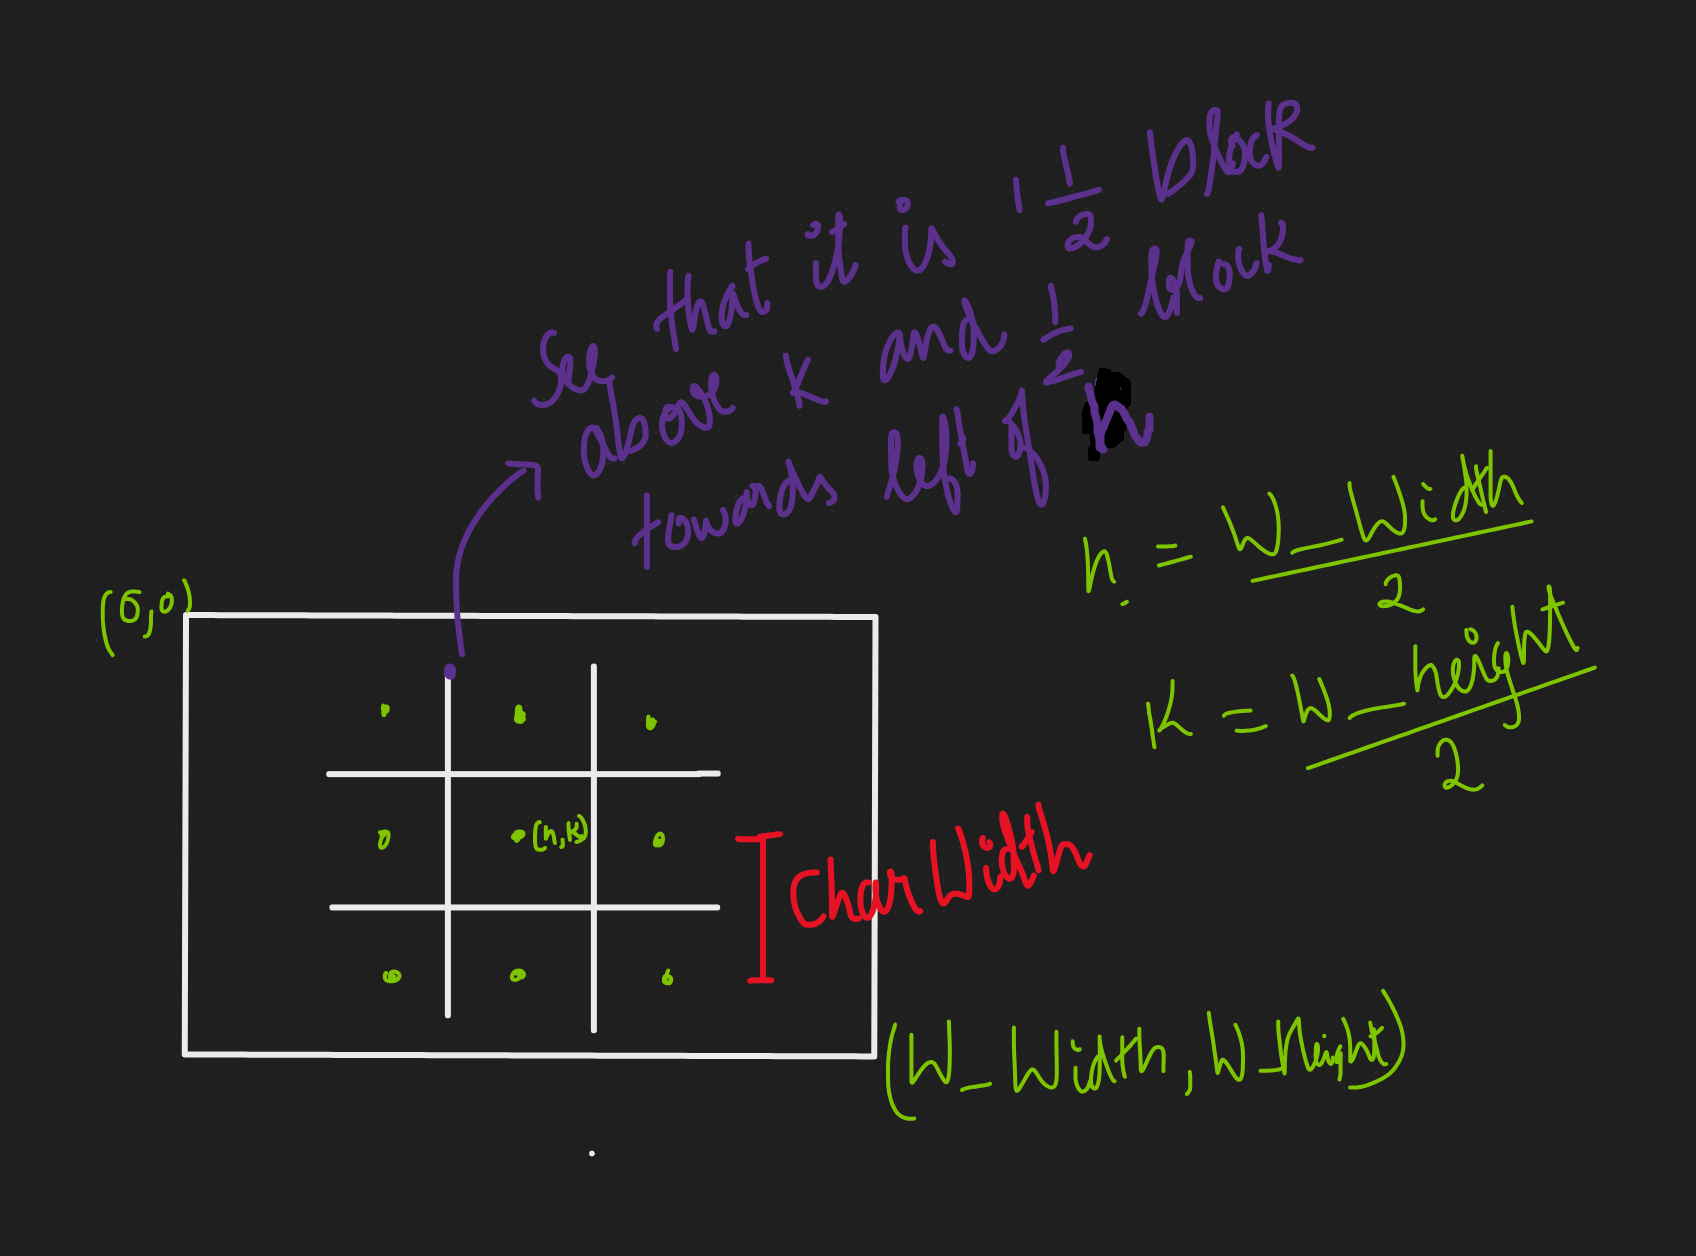
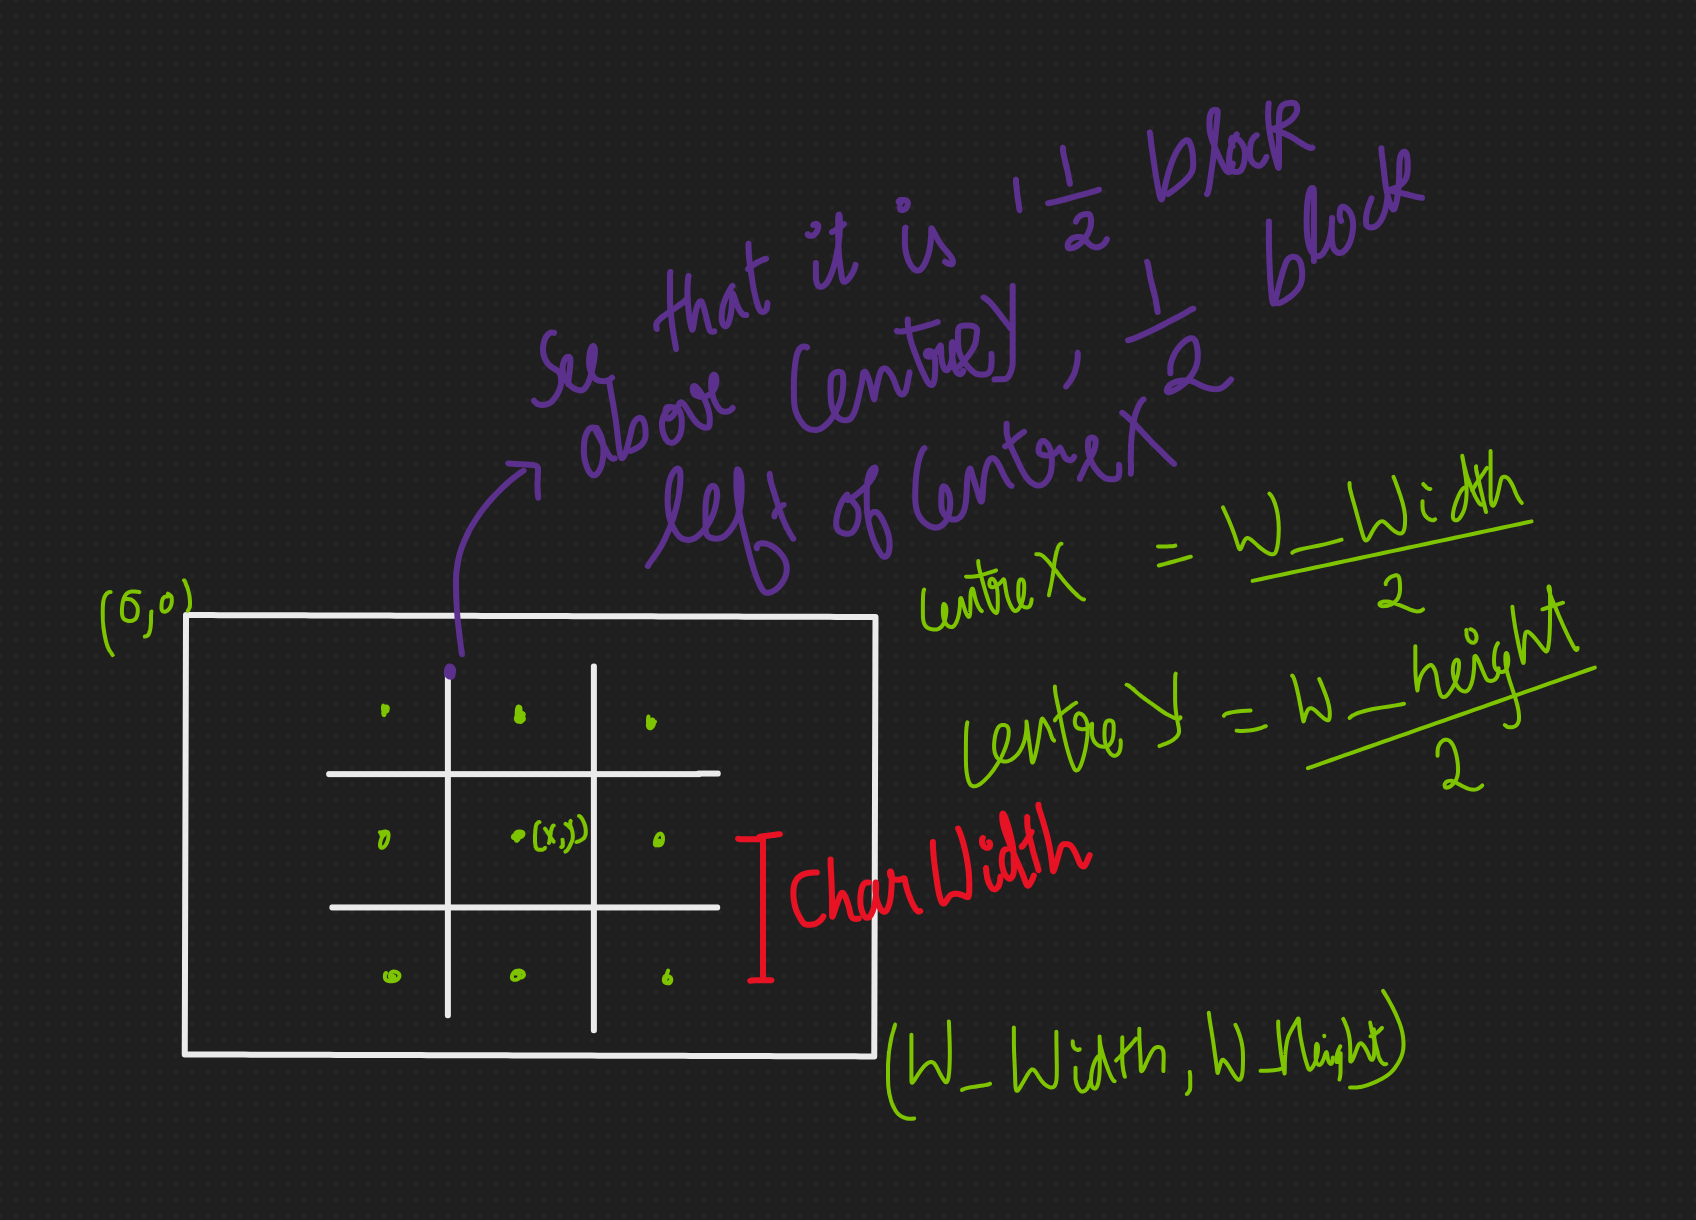
Renamed some Variables and corrected the image

diff --git a/main.py b/main.py
@@ -10,7 +10,7 @@ clock = pygame.time.Clock()
 running = True
 
 # Game setup
-(h,k) = (windowwidth/2, windowheight/2)
+(CentreX,CentreY) = (windowwidth/2, windowheight/2)
 Charwidth = 200
 
 # Set colours
@@ -36,17 +36,17 @@ while running:
 
     #Vertical lines
     #Refer the picture in readme for the position of the lines.
-    pygame.draw.line(screen, color[1], (h - 0.5*Charwidth , k - 1.5*Charwidth), ((h - 0.5*Charwidth) , (k - 1.5*Charwidth) + 3*Charwidth ), 10)
-    pygame.draw.line(screen, color[1], (h + 0.5*Charwidth , k - 1.5*Charwidth), ((h + 0.5*Charwidth) , (k - 1.5*Charwidth) + 3*Charwidth ), 10)
+    pygame.draw.line(screen, color[1], (CentreX - 0.5*Charwidth , CentreY - 1.5*Charwidth), ((CentreX - 0.5*Charwidth) , (CentreY - 1.5*Charwidth) + 3*Charwidth ), 10)
+    pygame.draw.line(screen, color[1], (CentreX + 0.5*Charwidth , CentreY - 1.5*Charwidth), ((CentreX + 0.5*Charwidth) , (CentreY - 1.5*Charwidth) + 3*Charwidth ), 10)
     
     #Horizontal lines
-    pygame.draw.line(screen, color[1], (h - 1.5*Charwidth , k - 0.5*Charwidth), ((h - 1.5*Charwidth) + 3*Charwidth , (k - 0.5*Charwidth) ), 10)
-    pygame.draw.line(screen, color[1], (h - 1.5*Charwidth , k + 0.5*Charwidth), ((h - 1.5*Charwidth) + 3*Charwidth , (k + 0.5*Charwidth) ), 10)
+    pygame.draw.line(screen, color[1], (CentreX - 1.5*Charwidth , CentreY - 0.5*Charwidth), ((CentreX - 1.5*Charwidth) + 3*Charwidth , (CentreY - 0.5*Charwidth) ), 10)
+    pygame.draw.line(screen, color[1], (CentreX - 1.5*Charwidth , CentreY + 0.5*Charwidth), ((CentreX - 1.5*Charwidth) + 3*Charwidth , (CentreY + 0.5*Charwidth) ), 10)
 
     #Draw X
-    drawXO.drawX(screen, h , k , 0.75 * Charwidth,color[1])
+    drawXO.drawX(screen, CentreX , CentreY , 0.75 * Charwidth,color[1])
     #draw O
-    drawXO.drawO(screen,h , k - Charwidth, 0.75* Charwidth,color[1])
+    drawXO.drawO(screen,CentreX , CentreY - Charwidth, 0.75* Charwidth,color[1])
     # flip() the display to put your work on screen
     pygame.display.flip()
 
